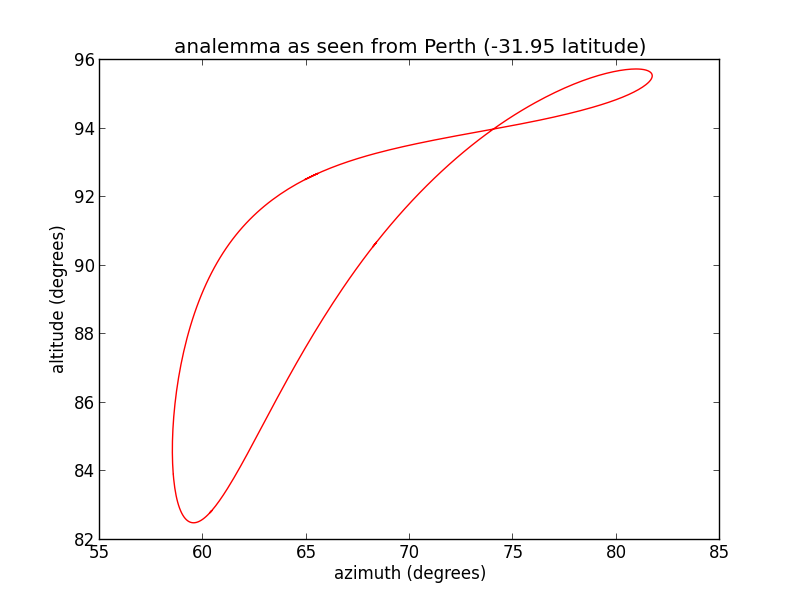
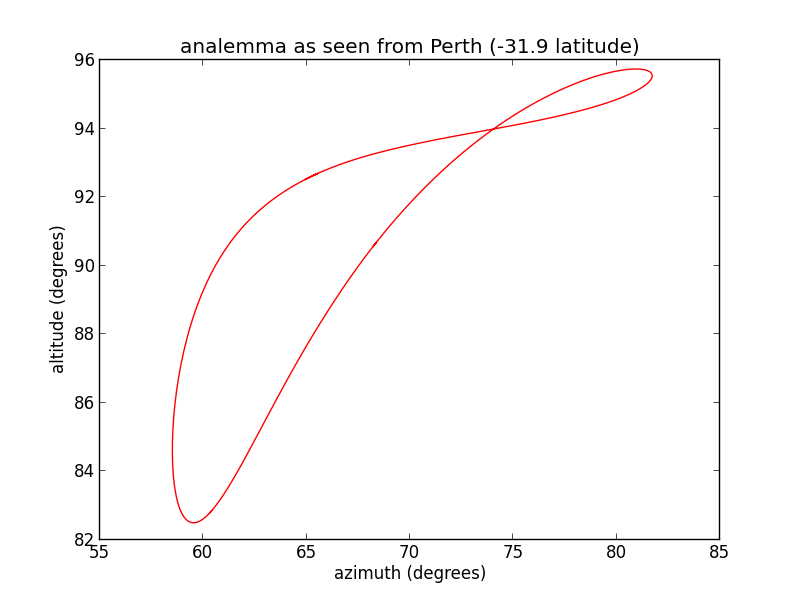
corrected display of lat

Changed region(s): [[0.2188, 0.06, 0.8125, 0.09]]

diff --git a/analemma.py b/analemma.py
@@ -1,5 +1,4 @@
 #!/usr/bin/env python
-# -*- coding: utf-8 -*-
 # needed to print the degree symbol
 
 import datetime
@@ -14,7 +13,7 @@ import matplotlib.ticker as mticker
 class analemma():
 
 
-    def __init__(self, year=int(time.strftime("%Y")), city="Greenwich Observatory", lon='0.0', lat='51.48', color="k", label=None):
+    def __init__(self, year=int(time.strftime("%Y")), city="Greenwich Observatory", lon='0.0', lat='51.48', color="r"):
         self.obs = ephem.Observer()
         self.obs.lon = lon
         self.obs.lat = lat
@@ -24,12 +23,11 @@ class analemma():
         self.y = []
         self.year = year
         self.color = color
-        self.label = "%sº lat" % lat
 
     def compute(self):
         obs = self.obs
         for m in range(1, 13):
-            for d in range(1, 31):
+            for d in range(1, 33): # yeah I know its sloppy but it works
                 obs.date = '%d/%d/%d 13:00' % (self.year, m,  d)
                 obs.date = ephem.date(ephem.date('%d/%d/%d 13:00' % (self.year, m,  d)) - float(self.obs.lon) * 12 / math.pi * ephem.hour)
                 self.sun.compute(obs)
@@ -39,14 +37,11 @@ class analemma():
                 self.y.append(y)
 
     def plot(self):
-        plt.plot(self.y, self.x, '%s-' % self.color, label=self.label)
-        plt.title('analemma as seen from %s' % (self.city))
-        plt.xlabel('azimuth')
-        plt.ylabel('altitude')
-        plt.gca().xaxis.set_major_formatter(mticker.FormatStrFormatter('%d º'))
-        plt.gca().yaxis.set_major_formatter(mticker.FormatStrFormatter('%d º'))
-        plt.legend()
-
+        plt.plot(self.y, self.x, '%s-' % self.color)
+        plt.title('analemma as seen from %s (%.1f latitude)' % (self.city, math.degrees(self.obs.lat)))
+        plt.xlabel('azimuth (degrees)')
+        plt.ylabel('altitude (degrees)')
+        
 
 if __name__ == '__main__':
     today = datetime.date.today()
@@ -60,4 +55,7 @@ if __name__ == '__main__':
     a = analemma(year=options.year, lon=options.lon, city=options.city, lat=options.lat)
     a.compute()
     a.plot()
-    plt.show()
+    fig1 = plt.gcf()
+    #plt.show()
+    plt.draw()
+    fig1.savefig('%s.png' % options.city, dpi=100)
